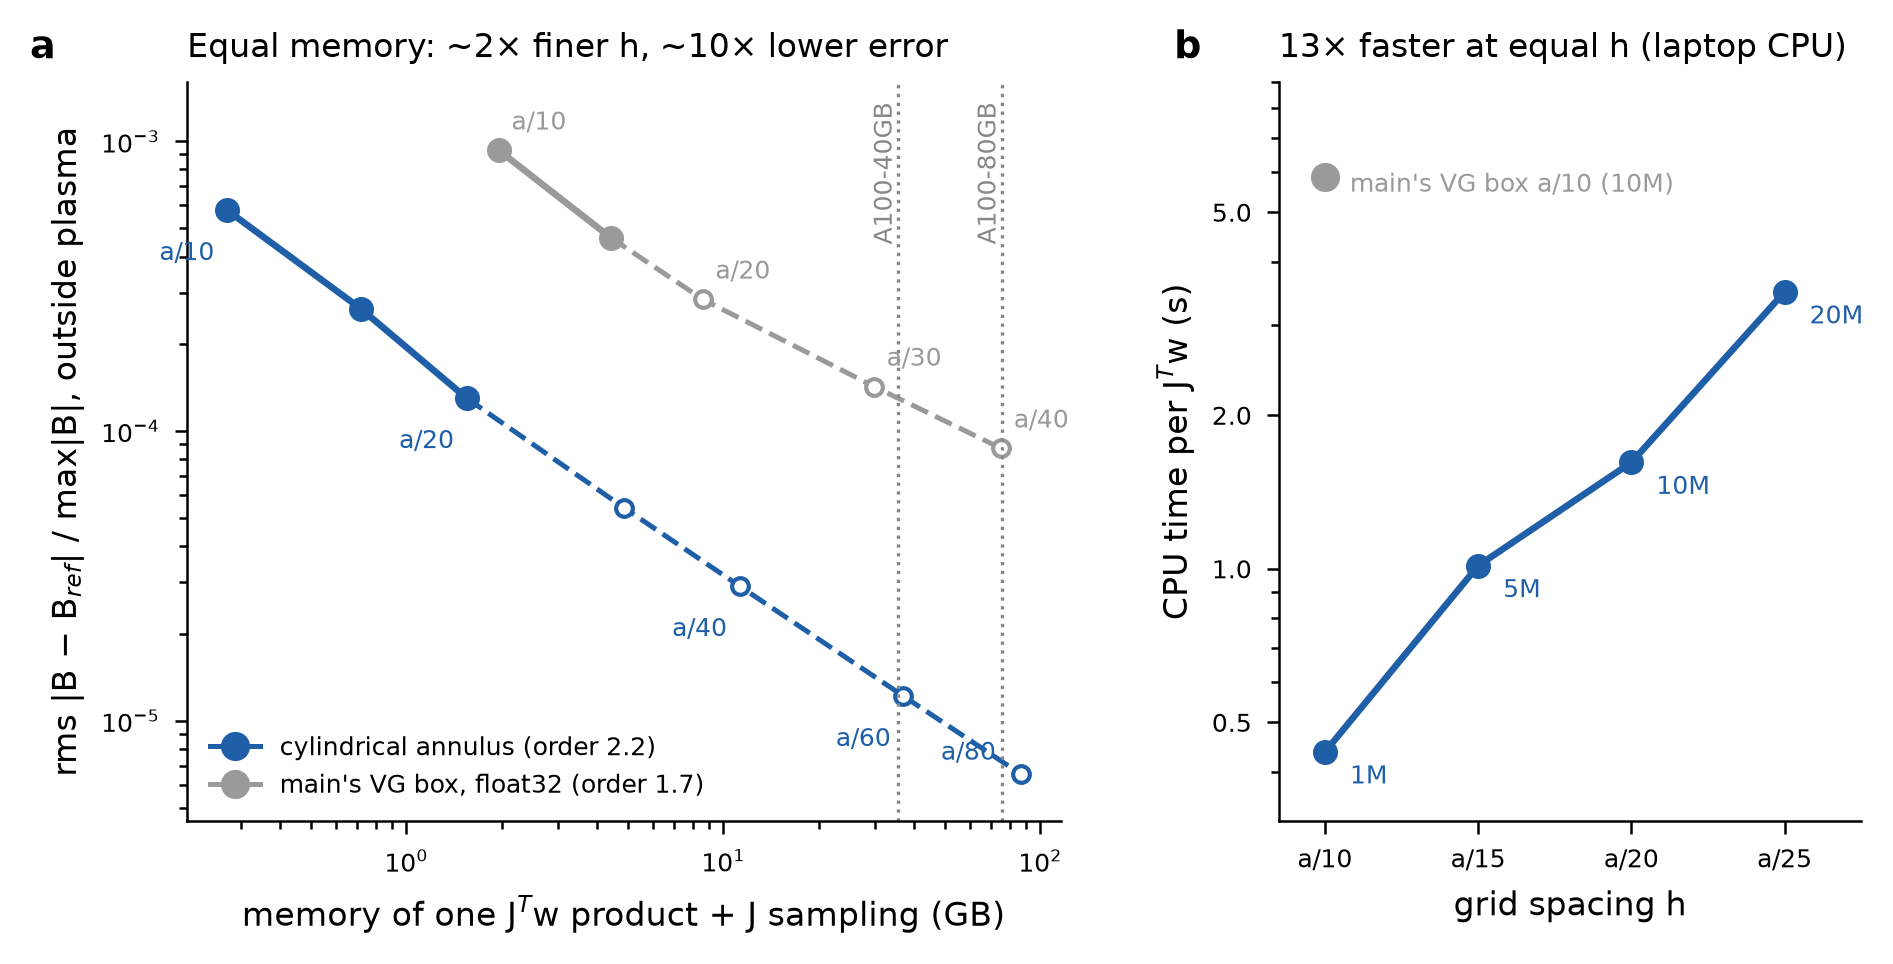
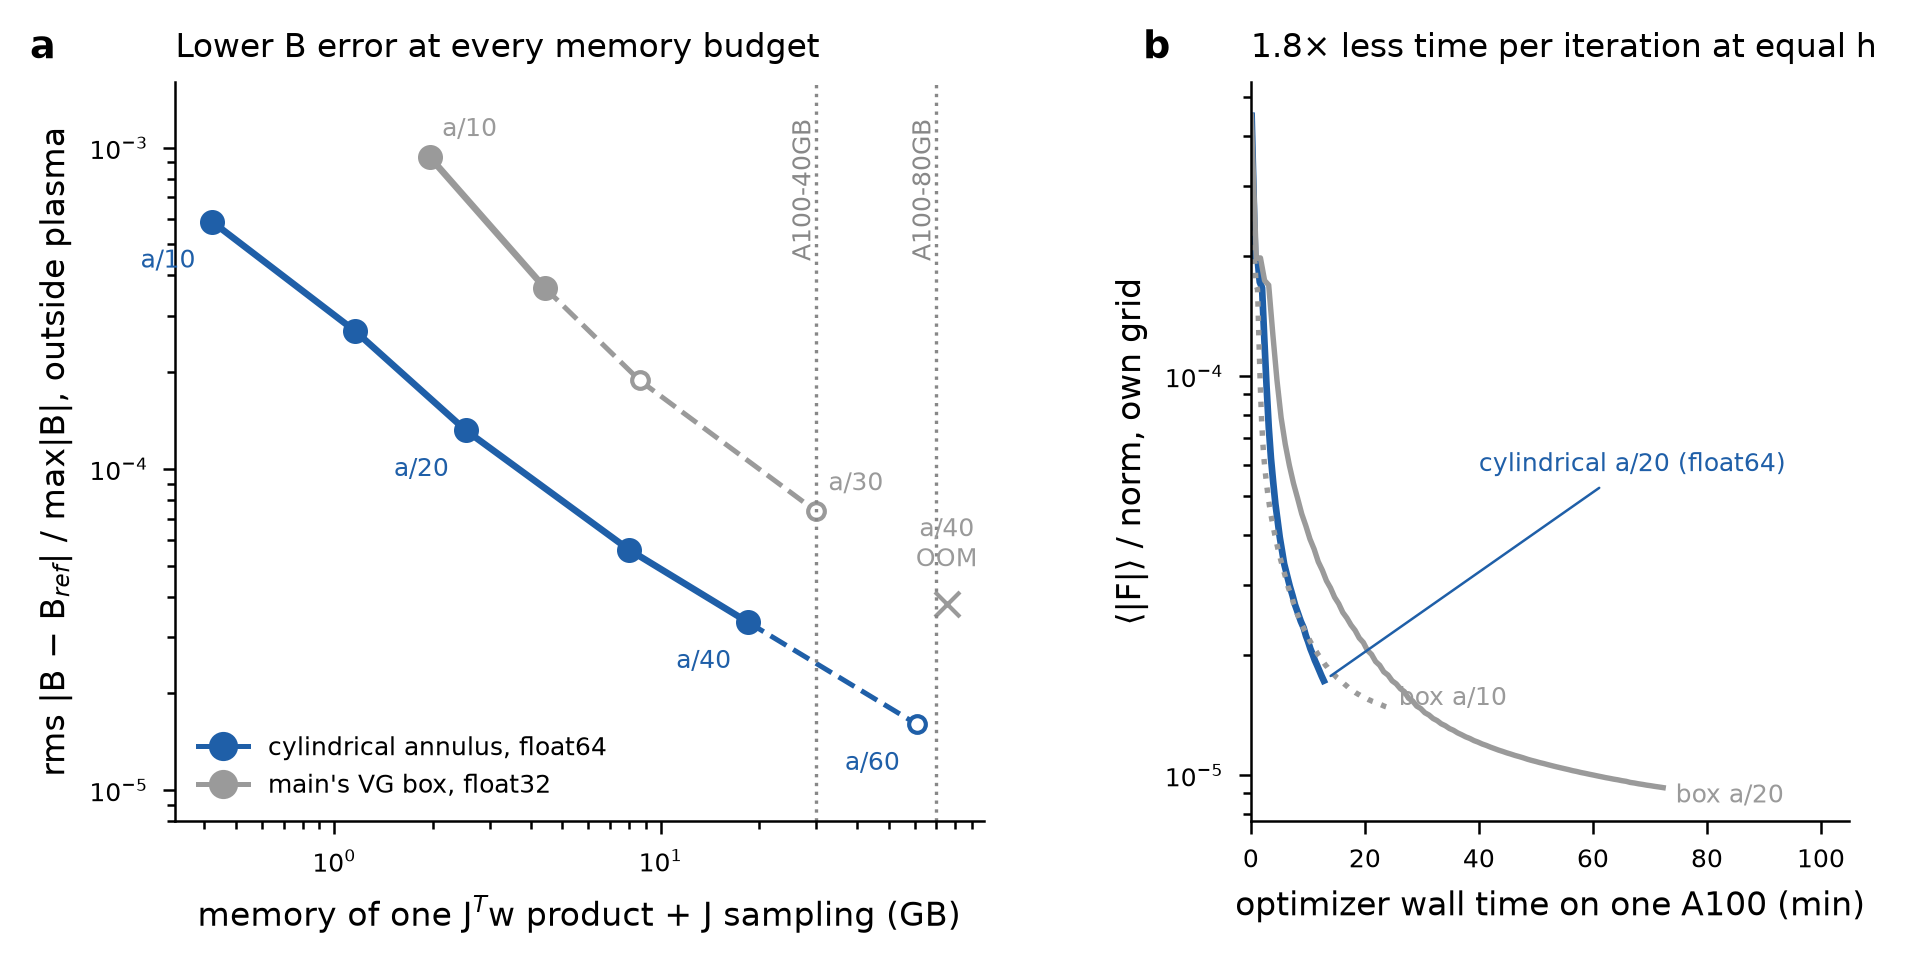
Docs: verdict figure regenerated with float64 memory, GPU B errors to a/40 and GPU production trajectories

diff --git a/docs/cylindrical_grid.md b/docs/cylindrical_grid.md
@@ -73,7 +73,7 @@ Banded S_m was measured and dropped: in the nodal basis about a third of the ent
 
 ![error vs memory](cyl_verdict.png)
 
-(a) Exterior B error (rms over 177 converged points 0.15–0.41 a outside the plasma, `results/cyl/b4/exterior_fine.json`) against the pipeline memory of the JᵀW product plus J sampling (model). Filled: measured errors; open/dashed: O(h^p) extrapolation with the fitted orders (cylindrical p = 2.16 from a/10–a/20, box p = 1.71 from a/10–a/15). Dotted: A100 budgets less ~4.5 GB shared. (b) Measured laptop CPU time per JᵀW.
+(Updated after stage D.) (a) Exterior B error (rms over the 171 converged reference points 0.15–0.40 a outside the plasma that lie inside every annulus, `results/cyl/b4/exterior_d1.json`; cylindrical a/30 and a/40 computed on the GPU) against the memory of the JᵀW product plus J sampling (XLA model; cylindrical in float64 with symmetric sampling and z-folded S_m, `memory_f64opt.json`; box float32, `memory.json`). Filled: measured errors; open/dashed: O(h^p) extrapolation with the last measured orders (cylindrical 1.8 from a/30–a/40, box 2.3 from a/10–a/15 on these points; on the earlier 177-point set the box's was 1.7, so its extrapolation is uncertain). ×: box a/40 ran out of memory on an 80 GB A100 (measured). Dotted: A100 budgets less ~10 GB of h-independent production memory. (b) ⟨|F|⟩/norm on each run's own grid against optimizer wall time on one A100-40GB (precise_QA, factors 3 3 2.5, cold start, the same arguments): cylindrical a/20 in float64 (30 iterations) and main's box at a/20 and a/10 (100 iterations).
 
 ## Stage D: GPU results (Modal A100, 2026-10-17; scripts in `scripts/modal_cyl/`)
 
